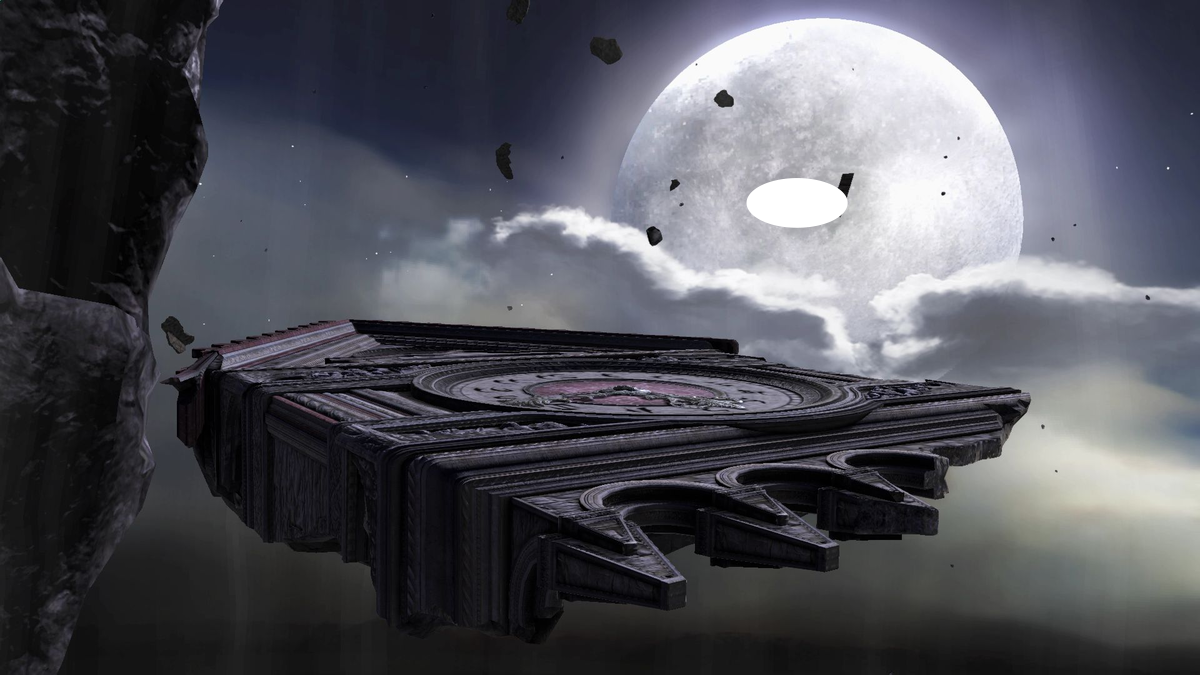
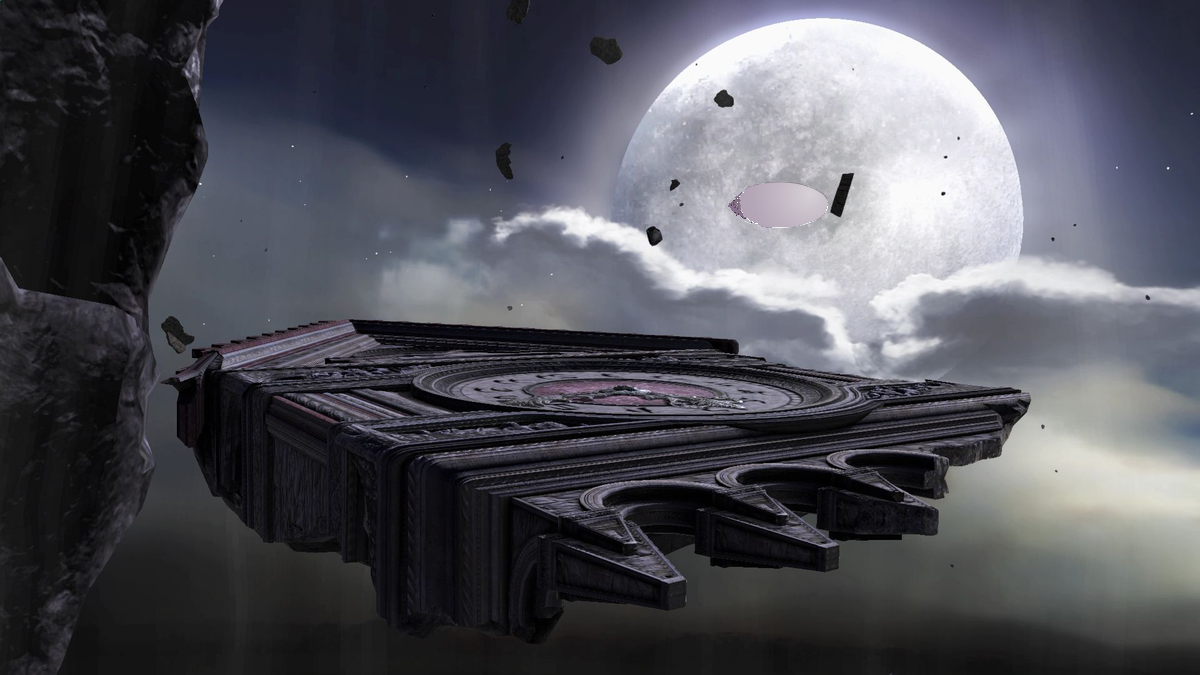
eye

Changed region(s): [[0.5858, 0.2489, 0.7092, 0.3422]]

diff --git a/index.js b/index.js
@@ -28,26 +28,35 @@ function updateClock() {
 }
 
 const pointer = document.getElementById('pointer');
+let targetAngle = 0;
+let currentAngle = 0;
+let isInitialized = false;
 
-window.addEventListener('mousemove', (e) => {
-  // 1. Get the bounding box of the element
+// Smooth animation loop
+function animatePointer() {
+  // Keep rotation continuous across the -180/180 boundary
+  const delta = ((targetAngle - currentAngle + 540) % 360) - 180;
+  currentAngle += delta * 0.22; // increase for snappier movement
+
+  pointer.style.transform = `rotate(${currentAngle}deg)`;
+  requestAnimationFrame(animatePointer);
+}
+
+window.addEventListener("mousemove", (e) => {
   const rect = pointer.getBoundingClientRect();
-  
-  // 2. Find the center point of the element
-  const elementCenterX = rect.left + rect.width / 2;
-  const elementCenterY = rect.top + rect.height / 2;
 
-  // 3. Calculate distance between mouse and element center
-  const deltaX = e.clientX - elementCenterX;
-  const deltaY = e.clientY - elementCenterY;
+  // Use true center of the element
+  const centerX = rect.left + rect.width / 2;
+  const centerY = rect.top + rect.height / 2;
 
-  // 4. Calculate angle in radians and convert to degrees
-  const angle = Math.atan2(deltaY, deltaX) * (180 / Math.PI);
+  targetAngle = Math.atan2(e.clientY - centerY, e.clientX - centerX) * (180 / Math.PI);
 
-  // 5. Apply the rotation
-  pointer.style.transform = `rotate(${angle}deg)`;
+  if (!isInitialized) {
+    currentAngle = targetAngle;
+    isInitialized = true;
+  }
 });
 
-
+animatePointer();
 updateClock();
 

diff --git a/style.css b/style.css
@@ -61,7 +61,7 @@ h2 {
 
 #pointer {
   position: fixed;
-  top: 30vh;
+  top: 29vh;
   right: 33vw;
   width: 50px;
   height: 50px;
